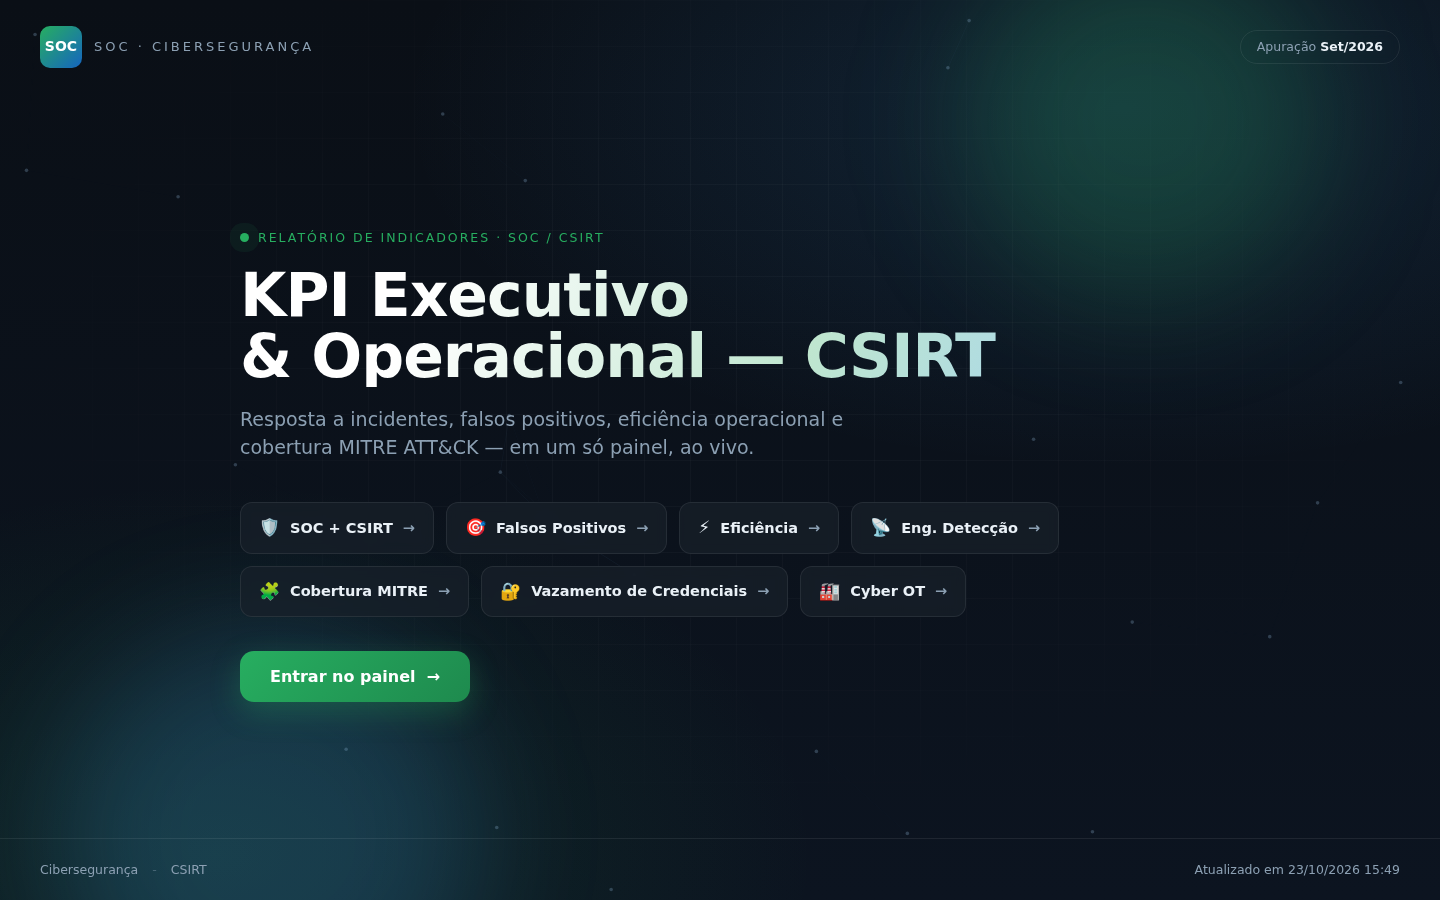
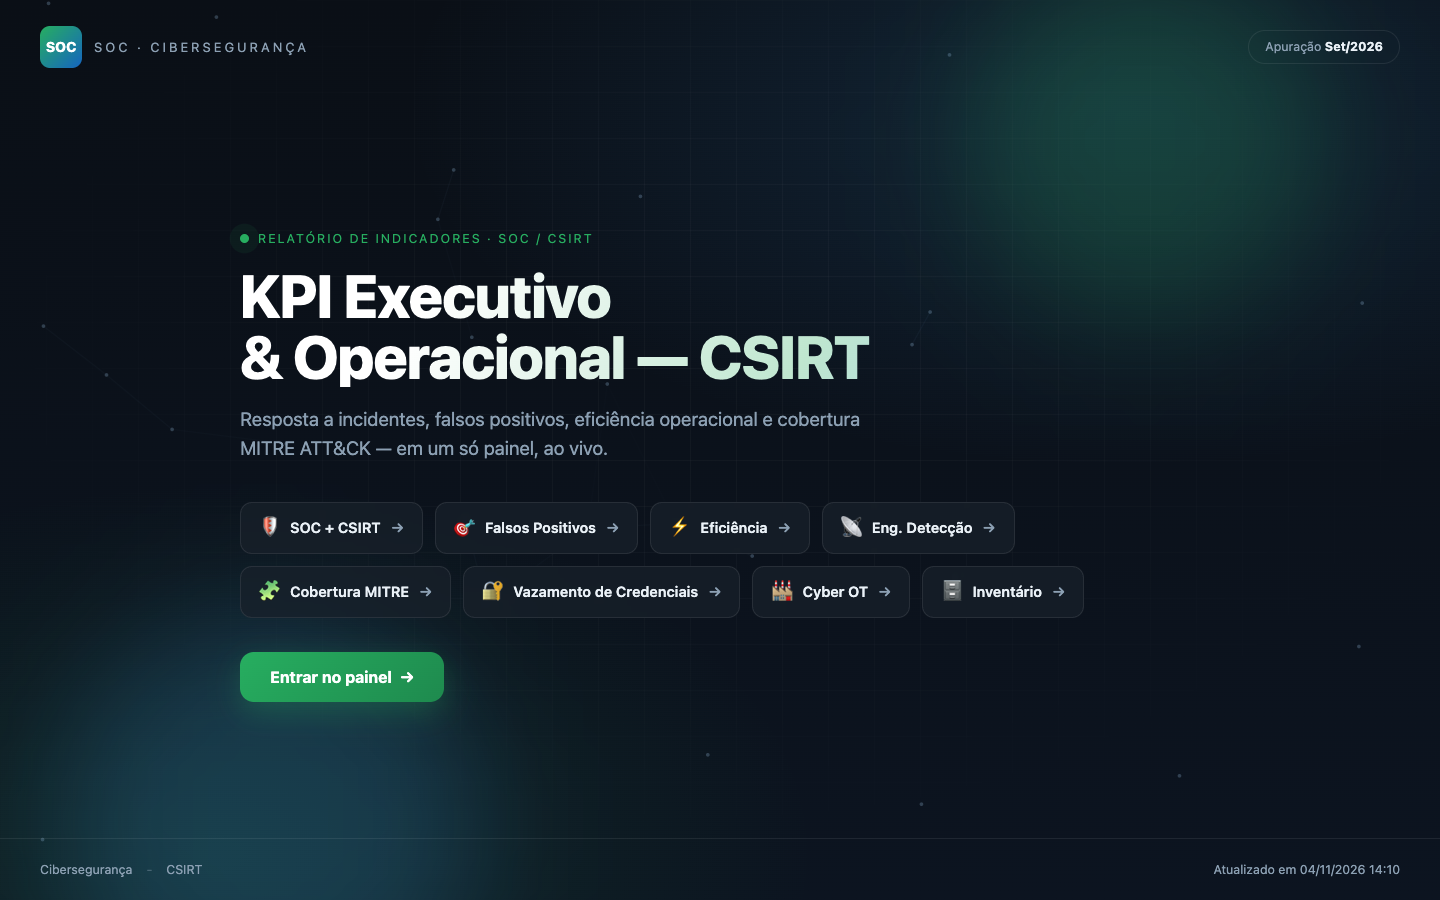
docs: telas da v29 (Eng. Detecção, semáforo da licença, Inventário)
- 17_eng_deteccao, 18_semaforo_licenca e 19_inventario (novas)
- 08_capa e 09_menu_lateral refeitas com o item Inventário
- README: novas telas na galeria
- Todas com dados fictícios

diff --git a/README.md b/README.md
@@ -21,6 +21,15 @@ Capa de apresentação, menu lateral expansível, carregador animado, **PT | EN*
 ![Menu lateral + SOC/CSIRT](docs/09_menu_lateral.png)
 *Menu lateral expansível, atalhos de idioma/tema no topo e usuário logado. Aba SOC + CSIRT com rótulos por severidade no gráfico de incidentes.*
 
+![Eng. Detecção](docs/17_eng_deteccao.png)
+*Eng. Detecção › Visão geral — casos de uso em produção, cobertura MITRE, alertas do ano e consumo de licença pela API de Billing, com Melhorias/Próximas ações (fatos do Elastic + nota do Admin).*
+
+![Semáforo da licença](docs/18_semaforo_licenca.png)
+*Semáforo da licença — "Por que estourou?": média por dia × limite diário, diferença separada em máquinas (custo fixo por hora) e uso, composição por categoria e camadas de dados.*
+
+![Inventário](docs/19_inventario.png)
+*Inventário › Servidores — CMDB × Cortex XDR × SIEM: universo, cobertura por fonte e lacunas que pedem ação.*
+
 ![Vazamento de Credenciais](docs/10_vazamento_credenciais.png)
 *Vazamento de Credenciais — KPIs Corporativo × Externo, recomendações por mês, evolução, fonte do vazamento, família de stealer e status dos findings.*
 
